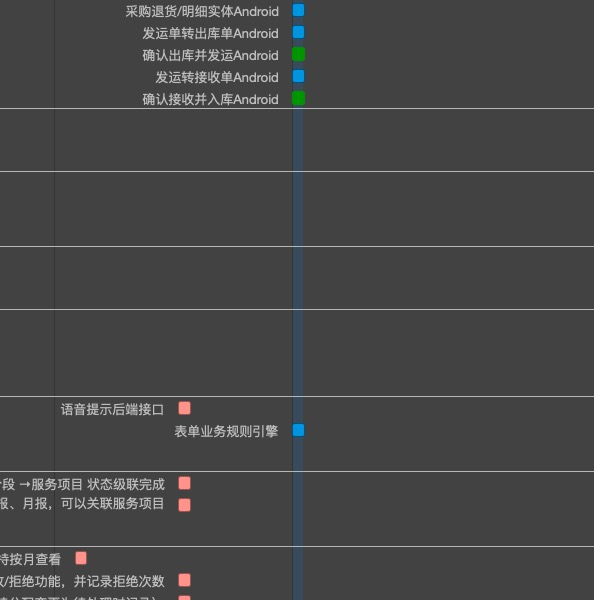
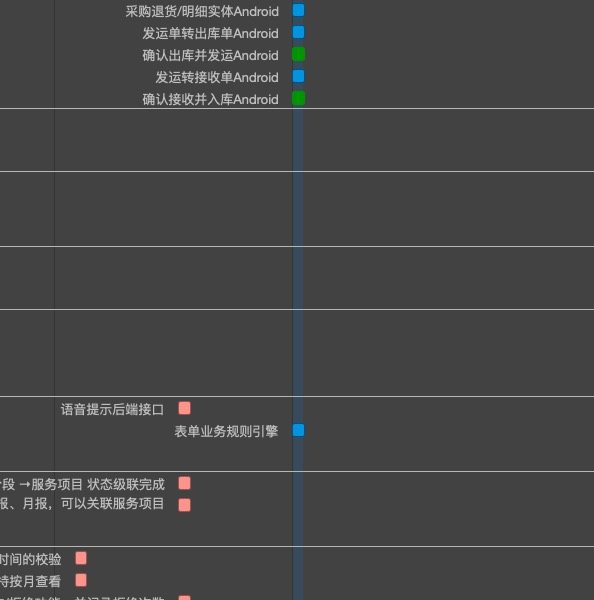
upgrade

Changed region(s): [[0.0, 0.9, 0.3333, 1.0]]

diff --git a/v2003集成阶段/resource.html b/v2003集成阶段/resource.html
@@ -361,12 +361,20 @@
 <td style="padding-left: 20px;">郭丰堂</td>
 <td>2020/1/3 上午9:00</td>
 <td>2020/1/17 下午7:00</td>
-<td>3 天</td>
+<td>4 天</td>
 <td>0%</td>
 <td></td>
             </tr>
 <tr>
 <td style="padding-left: 28px;" class="wrap taskTypeTask">派工平台支持按月查看</td> 
+<td>2020/1/3 上午9:00</td>
+<td>2020/1/3 下午7:00</td>
+<td>1 天</td>
+<td>0%</td>
+<td></td>
+            </tr>
+<tr>
+<td style="padding-left: 28px;" class="wrap taskTypeTask">【客户需求】派工单结束时增加对开始时间的校验</td> 
 <td>2020/1/3 上午9:00</td>
 <td>2020/1/3 下午7:00</td>
 <td>1 天</td>
@@ -409,8 +417,8 @@
 <td style="padding-left: 20px;">雷森品</td>
 <td>2020/1/3 上午9:00</td>
 <td>2020/1/15 下午7:00</td>
-<td>2 周 2 天 4 小时</td>
-<td>47%</td>
+<td>2 周 1 天 4 小时</td>
+<td>51%</td>
 <td></td>
             </tr>
 <tr>
@@ -426,14 +434,6 @@
 <td>2020/1/3 上午9:00</td>
 <td>2020/1/3 下午3:00</td>
 <td>4 小时</td>
-<td>0%</td>
-<td></td>
-            </tr>
-<tr>
-<td style="padding-left: 28px;" class="wrap taskTypeTask">【客户需求】派工单结束时增加对开始时间的校验</td> 
-<td>2020/1/3 上午9:00</td>
-<td>2020/1/3 下午7:00</td>
-<td>1 天</td>
 <td>0%</td>
 <td></td>
             </tr>

diff --git a/v2003集成阶段/gantt.html b/v2003集成阶段/gantt.html
@@ -30,16 +30,16 @@
 	<h1>FSCv2003：甘特图</h1>
 		<div class="tablewrap"><table border="0" cellspacing="0" cellpadding="0">
 <tr>
-	<td><img src="include/gantt0,0.jpg?nocacheTag=-43064736" border=0/></td>
-	<td><img src="include/gantt1,0.jpg?nocacheTag=687038391" border=0/></td>
+	<td><img src="include/gantt0,0.jpg?nocacheTag=498592921" border=0/></td>
+	<td><img src="include/gantt1,0.jpg?nocacheTag=1763602972" border=0/></td>
 </tr>
 <tr>
-	<td><img src="include/gantt0,1.jpg?nocacheTag=-262072481" border=0/></td>
-	<td><img src="include/gantt1,1.jpg?nocacheTag=1660416294" border=0/></td>
+	<td><img src="include/gantt0,1.jpg?nocacheTag=234522802" border=0/></td>
+	<td><img src="include/gantt1,1.jpg?nocacheTag=-115312788" border=0/></td>
 </tr>
 <tr>
-	<td><img src="include/gantt0,2.jpg?nocacheTag=1557394323" border=0/></td>
-	<td><img src="include/gantt1,2.jpg?nocacheTag=1780781567" border=0/></td>
+	<td><img src="include/gantt0,2.jpg?nocacheTag=1568167668" border=0/></td>
+	<td><img src="include/gantt1,2.jpg?nocacheTag=1955498993" border=0/></td>
 </tr>
 </table>
 </div>

diff --git a/v2003集成阶段/index.html b/v2003集成阶段/index.html
@@ -146,7 +146,7 @@
 <td style="padding-left: 20px;">郭丰堂</td>
 <td>2020/1/3 上午9:00</td>
 <td>2020/1/17 下午7:00</td>
-<td>3 天</td>
+<td>4 天</td>
 <td>0%</td>
 <td></td>
             </tr>
@@ -162,8 +162,8 @@
 <td style="padding-left: 20px;">雷森品</td>
 <td>2020/1/3 上午9:00</td>
 <td>2020/1/15 下午7:00</td>
-<td>2 周 2 天 4 小时</td>
-<td>47%</td>
+<td>2 周 1 天 4 小时</td>
+<td>51%</td>
 <td></td>
             </tr>
 <tr class="resource Staff">

diff --git a/v2003集成阶段/task.html b/v2003集成阶段/task.html
@@ -101,7 +101,7 @@
 <td>0%</td>
 <td></td>
 <td class="total"></td>
-<td>雷森品</td>
+<td>郭丰堂</td>
 <td></td>
 <td></td>
 <td>2020/1/3 上午9:00</td>
